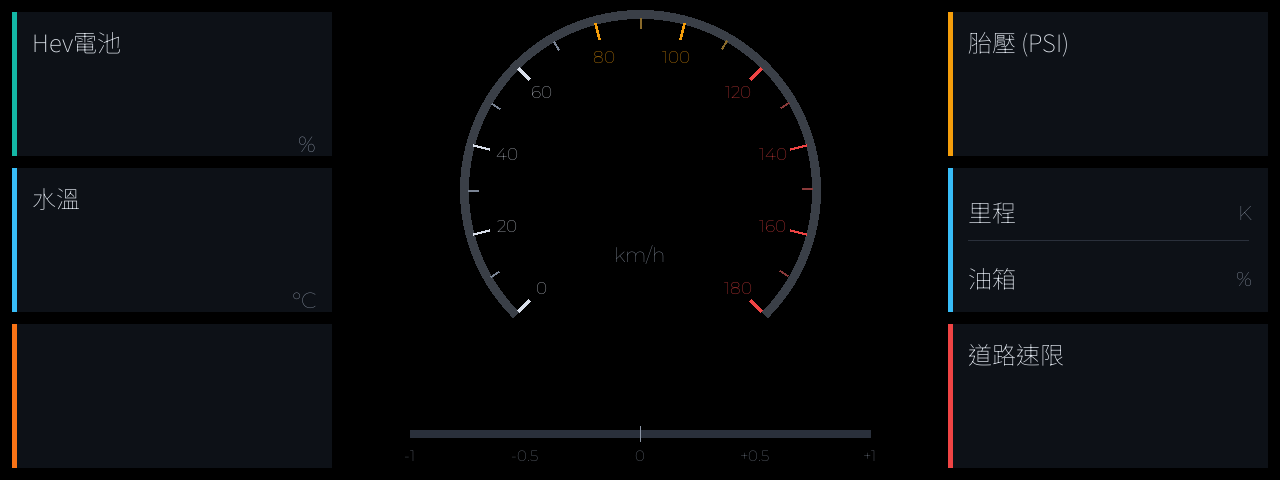
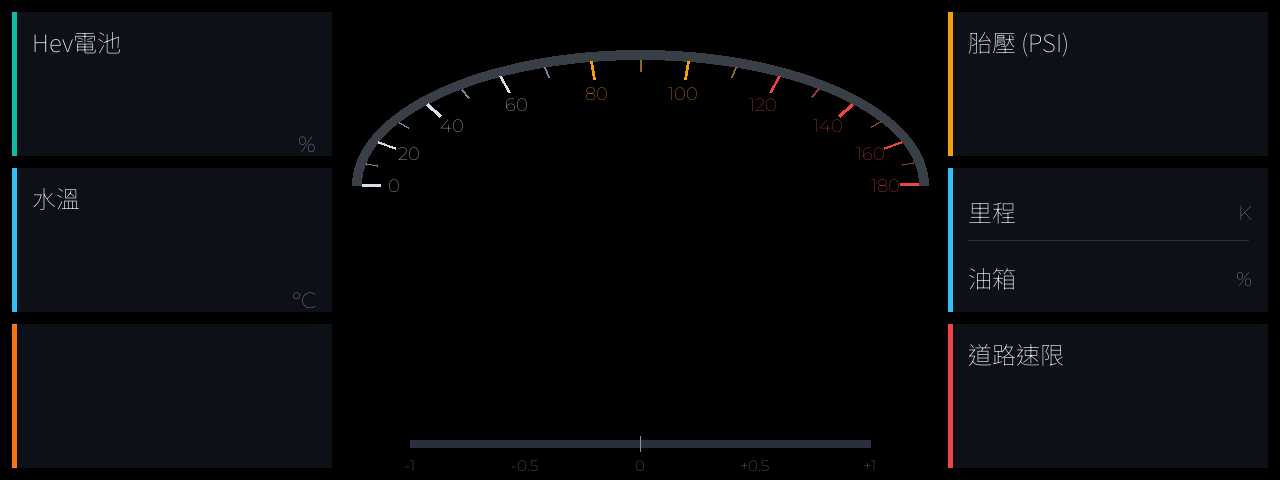
feat: DWIN 版面改用半橢圓拱形時速錶
圓形錶盤在 8:3 長條螢幕上會被高度卡死、左右又留大片黑邊。改為上半
橢圓的拱形（半軸 288x135）後貼合長條比例，拱下方整片空間讓給時速
數字，字級由 120px 放大到 200px。

時速數字放在拱的「下方」而非拱內部——放拱內會頂到刻度數字，能用的
字級反而更小。

連帶調整：
- 拿掉 km/h：它夾在轉速與增壓那行之間會打架，且 rec.gif 原設計
  本來就沒有標這個單位
- 轉速與增壓數值改為並排成一行，省出時速大字所需的垂直空間
- IP 移到中央區左上角（原本壓到增壓刻度的 "-1"）

刻度與依速域上色的規則不變。

diff --git a/esp32_display/dwin_dashboard/tools/gen_background.py b/esp32_display/dwin_dashboard/tools/gen_background.py
@@ -44,11 +44,21 @@ ROW_GAP  = 12
 ROW_Y    = [PAD, PAD + ROW_H + ROW_GAP, PAD + 2 * (ROW_H + ROW_GAP)]
 ACCENT_W = 5
 
-GAUGE_CX, GAUGE_CY, GAUGE_R = 640, 190, 180
-TURBO_Y, TURBO_BAR_Y, TURBO_BAR_W = 382, 430, 460
+# 時速拱：上半橢圓（180°~360°）。橢圓比正圓更貼合 8:3 的長條螢幕，
+# 而且拱下方整塊空間可以讓給時速大字。
+GAUGE_CX, GAUGE_CY = 640, 185       # 橢圓中心（也是兩端點的高度）
+GAUGE_A, GAUGE_B   = 288, 135       # 水平/垂直半軸
+ARC_W              = 10             # 軌道線寬
+TICK_LEN_MAJOR     = 18
+TICK_LEN_MINOR     = 11
+LABEL_INSET        = 42             # 刻度數字距離軌道的內縮量
+
+# 轉速與增壓數值並排成一行，省下一整行的垂直空間給時速大字
+RPM_CX, TURBO_CX, ROW2_Y = 556, 764, 385
+TURBO_BAR_Y, TURBO_BAR_W = 440, 460
 
 SPEED_MAX = 180
-ROT, SPAN = 135, 270                # 起始角度與涵蓋角度（與 LVGL 版一致）
+ROT, SPAN = 180, 180                # PIL 角度：180=左端、270=正上、360=右端
 
 def f(name, size):
     return ImageFont.truetype(os.path.join(FONTS, name), size)
@@ -64,9 +74,13 @@ def card(d, x, y, w, h, accent):
 def text(d, xy, s, font, fill, anchor="la"):
     d.text(xy, s, font=font, fill=fill, anchor=anchor)
 
-def polar(cx, cy, r, deg):
-    a = math.radians(deg)
-    return cx + r * math.cos(a), cy + r * math.sin(a)
+def ellipse_pt(deg, a, b):
+    """橢圓參數式取點。a/b 縮小即可得到往內縮的同心橢圓。"""
+    t = math.radians(deg)
+    return GAUGE_CX + a * math.cos(t), GAUGE_CY + b * math.sin(t)
+
+def arc_box(a, b):
+    return [GAUGE_CX - a, GAUGE_CY - b, GAUGE_CX + a, GAUGE_CY + b]
 
 def draw_static(d):
     # ── 左欄 ──────────────────────────────────────────────────────────
@@ -94,10 +108,8 @@ def draw_static(d):
     card(d, RIGHT_X, ROW_Y[2], COL_W, ROW_H, RED)
     text(d, (RIGHT_X + 20, ROW_Y[2] + 12), "道路速限", F_TC(24), LABEL)
 
-    # ── 時速環：灰色軌道 + 刻度 ───────────────────────────────────────
-    d.arc([GAUGE_CX - GAUGE_R, GAUGE_CY - GAUGE_R,
-           GAUGE_CX + GAUGE_R, GAUGE_CY + GAUGE_R],
-          ROT, ROT + SPAN, fill=TRACK, width=9)
+    # ── 時速拱：灰色軌道 + 刻度 ────────────────────────────────────────
+    d.arc(arc_box(GAUGE_A, GAUGE_B), ROT, ROT + SPAN, fill=TRACK, width=ARC_W)
 
     for v in range(0, SPEED_MAX + 1, 10):
         ang = ROT + SPAN * v / SPEED_MAX
@@ -105,23 +117,20 @@ def draw_static(d):
         # 依速域上色：0-70 白、80-110 琥珀、120+ 紅
         col = (0xD8, 0xDE, 0xE9) if v <= 70 else (ORANGE if v <= 110 else RED)
         dim = (0x7A, 0x84, 0x94) if v <= 70 else ((0x8A, 0x6A, 0x2A) if v <= 110 else (0x8A, 0x3A, 0x3A))
-        r0 = GAUGE_R - 8
-        r1 = r0 - (16 if major else 10)
-        x0, y0 = polar(GAUGE_CX, GAUGE_CY, r0, ang)
-        x1, y1 = polar(GAUGE_CX, GAUGE_CY, r1, ang)
+        ln = TICK_LEN_MAJOR if major else TICK_LEN_MINOR
+        x0, y0 = ellipse_pt(ang, GAUGE_A - ARC_W, GAUGE_B - ARC_W)
+        x1, y1 = ellipse_pt(ang, GAUGE_A - ARC_W - ln, GAUGE_B - ARC_W - ln)
         d.line([x0, y0, x1, y1], fill=(col if major else dim), width=3 if major else 2)
         if major:
-            lx, ly = polar(GAUGE_CX, GAUGE_CY, r1 - 18, ang)
-            text(d, (lx, ly), str(v), F_NUM(17), col, "mm")
-
-    text(d, (GAUGE_CX, GAUGE_CY + 52), "km/h", F_NUM(20), UNIT, "ma")
+            lx, ly = ellipse_pt(ang, GAUGE_A - LABEL_INSET, GAUGE_B - LABEL_INSET)
+            text(d, (lx, ly), str(v), F_NUM(18), col, "mm")
 
     # ── 增壓：軌道與刻度 ─────────────────────────────────────────────
     bx = GAUGE_CX - TURBO_BAR_W // 2
     d.rectangle([bx, TURBO_BAR_Y, bx + TURBO_BAR_W, TURBO_BAR_Y + 7], fill=(0x2A, 0x30, 0x3B))
     d.line([GAUGE_CX, TURBO_BAR_Y - 4, GAUGE_CX, TURBO_BAR_Y + 11], fill=UNIT)
-    for i, s in enumerate(["-1", "-0.5", "0", "+0.5", "+1"]):
-        text(d, (bx + i * TURBO_BAR_W // 4, TURBO_BAR_Y + 16), s, F_NUM(15), UNIT, "ma")
+    for i, lbl in enumerate(["-1", "-0.5", "0", "+0.5", "+1"]):
+        text(d, (bx + i * TURBO_BAR_W // 4, TURBO_BAR_Y + 16), lbl, F_NUM(15), UNIT, "ma")
 
 def draw_dynamic(d):
     """MCU 透過 VP 寫入、由螢幕疊在背景上的部分。僅供預覽。"""
@@ -138,21 +147,23 @@ def draw_dynamic(d):
     text(d, (RIGHT_X + 26, ROW_Y[2] + 46), "90", F_NUM(72), TEXT)
 
     # 時速進度弧（0 -> 75）
-    end = ROT + SPAN * 75 / SPEED_MAX
-    d.arc([GAUGE_CX - GAUGE_R, GAUGE_CY - GAUGE_R,
-           GAUGE_CX + GAUGE_R, GAUGE_CY + GAUGE_R],
-          ROT, end, fill=BLUE, width=9)
+    d.arc(arc_box(GAUGE_A, GAUGE_B), ROT, ROT + SPAN * 75 / SPEED_MAX,
+          fill=BLUE, width=ARC_W)
 
-    text(d, (GAUGE_CX, GAUGE_CY - 18), "75", F_NUM_SB(120), TEXT, "mm")
-    text(d, (GAUGE_CX - 8, GAUGE_CY + 112), "1750", F_NUM_SB(56), BLUE, "mm")
-    text(d, (GAUGE_CX + 66, GAUGE_CY + 128), "R", F_NUM(20), UNIT, "mm")
+    # 時速大字放在拱「下方」而非拱內——拱內會頂到刻度，下方才放得大
+    text(d, (GAUGE_CX, 265), "75", F_NUM_SB(200), TEXT, "mm")
 
-    text(d, (GAUGE_CX - 32, TURBO_Y), "+0.15", F_NUM(40), TEXT, "ma")
-    text(d, (GAUGE_CX + 60, TURBO_Y + 12), "BAR", F_NUM(20), LABEL, "la")
+    text(d, (RPM_CX, ROW2_Y), "1750", F_NUM_SB(56), BLUE, "mm")
+    text(d, (RPM_CX + 74, ROW2_Y + 16), "R", F_NUM(20), UNIT, "mm")
+    text(d, (TURBO_CX - 32, ROW2_Y), "+0.15", F_NUM(40), TEXT, "mm")
+    text(d, (TURBO_CX + 58, ROW2_Y + 12), "BAR", F_NUM(20), LABEL, "mm")
+
     bx = GAUGE_CX - TURBO_BAR_W // 2
     d.rectangle([GAUGE_CX, TURBO_BAR_Y, GAUGE_CX + 22, TURBO_BAR_Y + 7], fill=BLUE)
 
-    text(d, (GAUGE_CX + 226, 462), "10.0.4.99", F_NUM(15), UNIT, "ra")
+    # 連線資訊放中央區左上角的空白處。實作時應該移到 DGUS 的設定分頁，
+    # 主畫面只留一個連線指示點即可。
+    text(d, (GAUGE_CX - GAUGE_A, 14), "10.0.4.99", F_NUM(15), UNIT, "la")
 
 os.makedirs(OUT, exist_ok=True)
 bg = Image.new("RGB", (W, H), BG)

diff --git a/esp32_display/dwin_dashboard/README.md b/esp32_display/dwin_dashboard/README.md
@@ -36,13 +36,26 @@ python3 tools/gen_background.py <字型資料夾>
 分界線的意義：**移動數值位置、改顏色、改門檻只動 `14.BIN`，純 Mac 作業**；
 只有改背景美術時才需要跑一次 ICL 轉換。
 
+## 時速錶為什麼是半橢圓拱形
+
+圓形錶盤放在 8:3 的長條螢幕上，上下會被高度卡死、左右又留一大片黑邊。
+改成**上半橢圓的拱形**後：
+
+- 拱可以橫向拉寬（半軸 288×135），貼合長條比例
+- 拱下方整片空間讓給時速數字，字級從 120px 放大到 **200px**
+- 刻度與依速域上色（0-70 白 / 80-110 琥珀 / 120+ 紅）的規則不變
+
+時速數字刻意放在**拱的下方**而不是拱內部 —— 放在拱內會頂到刻度數字，
+能用的字級反而更小。
+
 ## 版面草圖的已知取捨
 
-- 高度只有 480（現行 1024×600 是 600），錶盤直徑從 460 縮到 360
-- 圓形錶盤放在 8:3 的長條螢幕中央，左右各留約 128px 黑邊。
-  黑邊在車上不算難看（畫素不發光），但如果要用滿，得改成非對稱版面
-  （例如卡片全部靠左、錶盤靠右）
-- IP 貼在畫面底緣；DGUS 支援分頁，實作時應該移到設定頁
+- 高度只有 480（現行 1024×600 是 600），垂直空間相當吃緊
+- **拿掉了 `km/h`**：它夾在轉速與增壓那行之間會打架，而且原始的
+  `rec.gif` 設計本來就沒有標這個單位——大數字不需要
+- **轉速與增壓數值並排成一行**，才省得出時速大字的空間
+- IP 暫時放在中央區左上角。DGUS 原生支援分頁，實作時應該移到設定頁，
+  主畫面只留一個連線指示點
 
 ## 尺寸與座標
 
